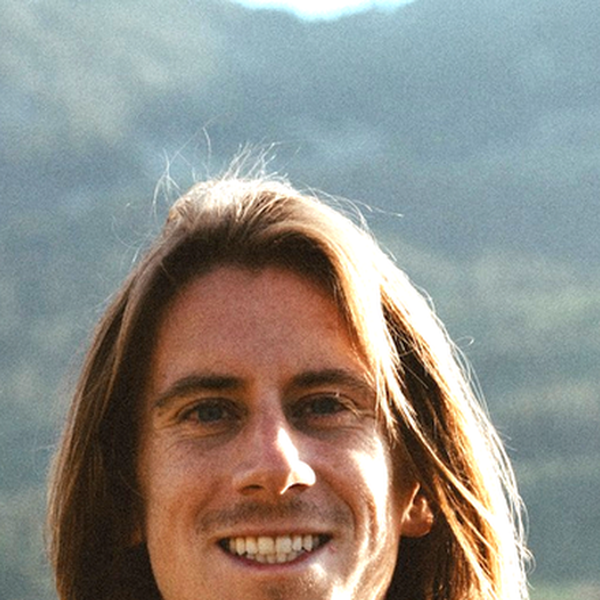
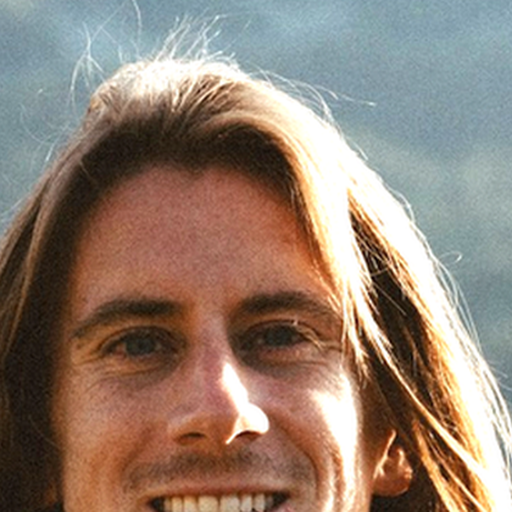
Team page: center Lance & Amanda headshots, move Chelsae to 4th (Community Director)
- Re-crop lancelot-stukaloff.png and amanda-williams.jpg tightly centered on
  the face (512x512) so they fill the avatar circles properly
- Move Chelsae Zirna to the 4th team position (after Lance, before Jared)
- Update Chelsae's title: Retreat Visionary & Steward -> Community Director

diff --git a/src/app/team/page.tsx b/src/app/team/page.tsx
@@ -110,6 +110,20 @@ const CORE_TEAM = [
     projectLink: { label: 'Investment Details', href: '/invest' },
   },
   {
+    name: 'Chelsae Zirna',
+    photo: '/images/team/chelsae-zirna.jpg',
+    role: 'Community Director',
+    bio: 'Chelsae Zirna is a retreat facilitator devoted to liberating love. She has been an experience designer and community builder for over a decade — from inside IBM to her company Chrysalis. Chelsae leads the intentional design of Abundancia\'s retreat experiences, weaving transformative programming into the land itself.',
+    shortBio: 'Retreat facilitator and experience designer devoted to liberating love, with a decade of work spanning IBM to founding Chrysalis.',
+    expertise: ['Retreat Facilitation', 'Experience Design', 'Community Building', 'Transformative Programming'],
+    achievements: [
+      'Over a decade of experience design and community building',
+      'Led transformative initiatives from inside IBM to founding Chrysalis',
+      'Steward of intentional retreat experiences rooted in love and liberation',
+    ],
+    linkedIn: '',
+  },
+  {
     name: 'Jared Gossett',
     photo: '/images/team/jared-gossett.png',
     role: 'Luxury Home Builder',
@@ -160,20 +174,6 @@ const CORE_TEAM = [
       '16+ unique tiny and off-grid living spaces built',
       'Developed Abundancia\'s tiny home and dome product line specifications',
       '11 years spanning construction, marketing, interior design, and real estate',
-    ],
-    linkedIn: '',
-  },
-  {
-    name: 'Chelsae Zirna',
-    photo: '/images/team/chelsae-zirna.jpg',
-    role: 'Retreat Visionary & Steward',
-    bio: 'Chelsae Zirna is a retreat facilitator devoted to liberating love. She has been an experience designer and community builder for over a decade — from inside IBM to her company Chrysalis. Chelsae leads the intentional design of Abundancia\'s retreat experiences, weaving transformative programming into the land itself.',
-    shortBio: 'Retreat facilitator and experience designer devoted to liberating love, with a decade of work spanning IBM to founding Chrysalis.',
-    expertise: ['Retreat Facilitation', 'Experience Design', 'Community Building', 'Transformative Programming'],
-    achievements: [
-      'Over a decade of experience design and community building',
-      'Led transformative initiatives from inside IBM to founding Chrysalis',
-      'Steward of intentional retreat experiences rooted in love and liberation',
     ],
     linkedIn: '',
   },
